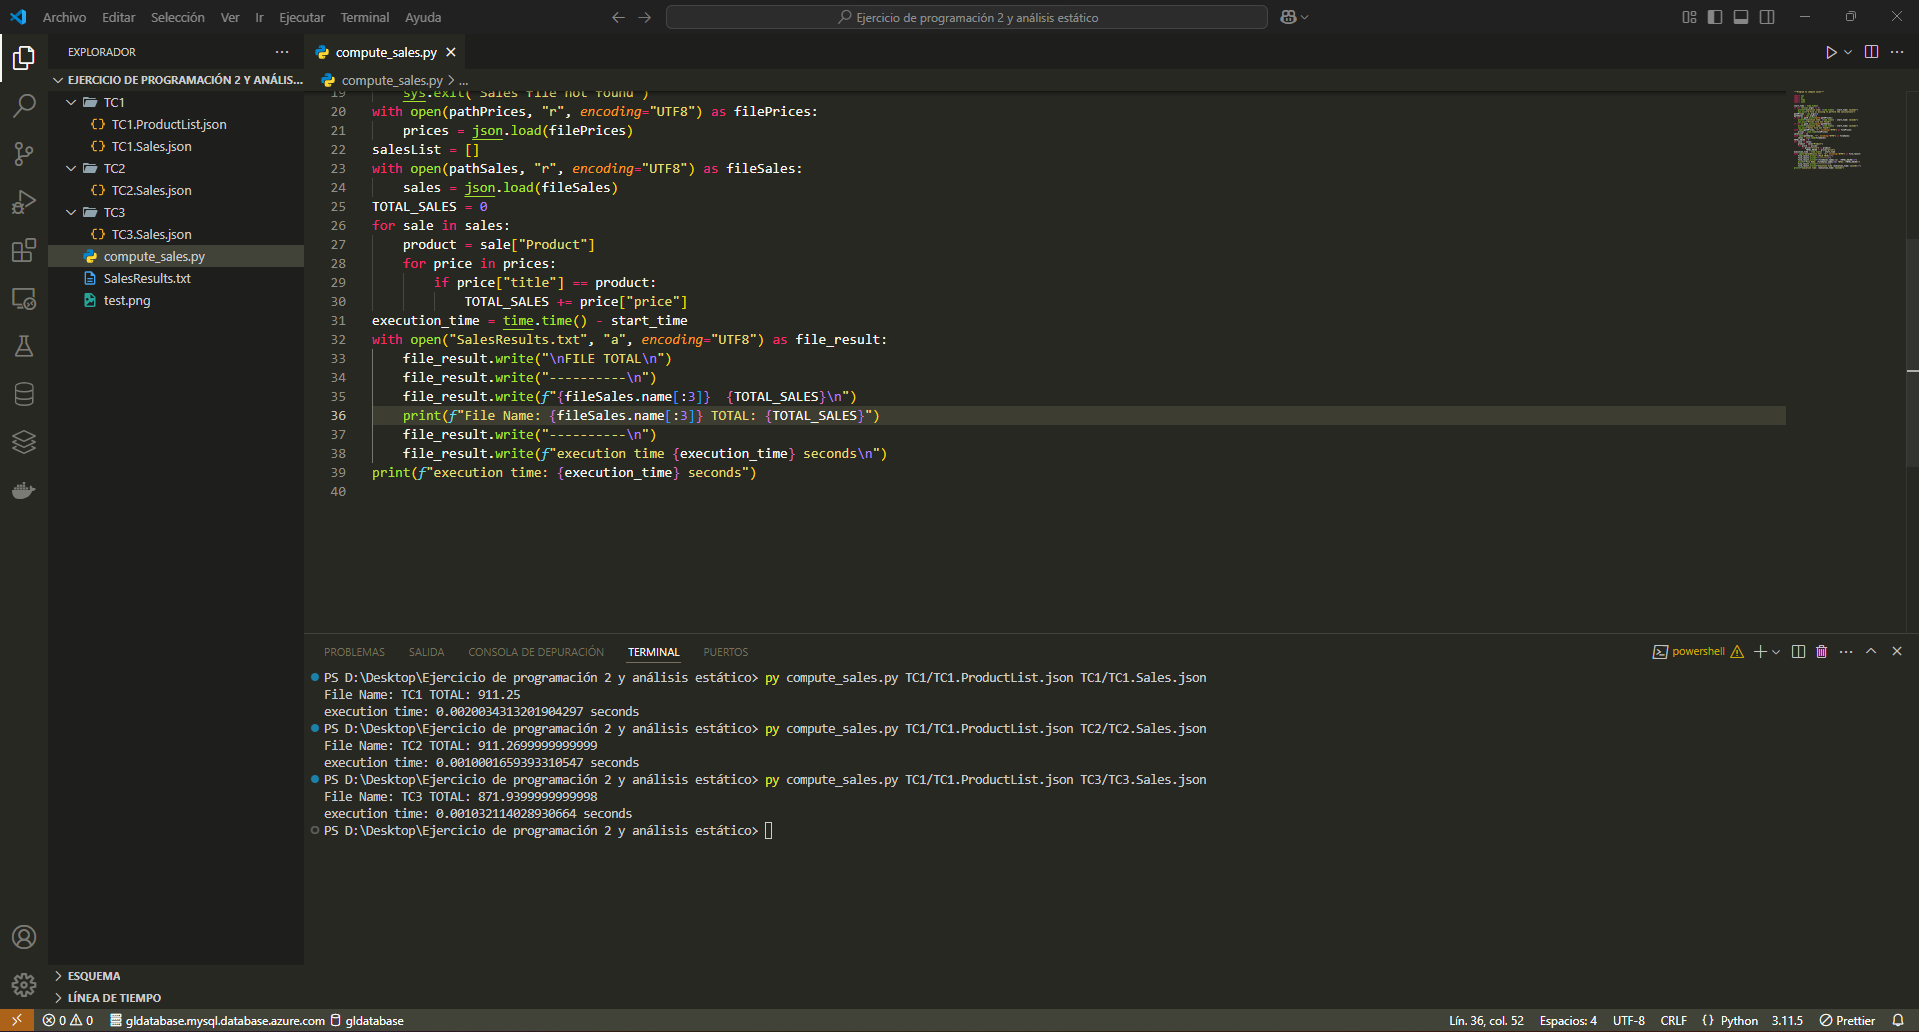
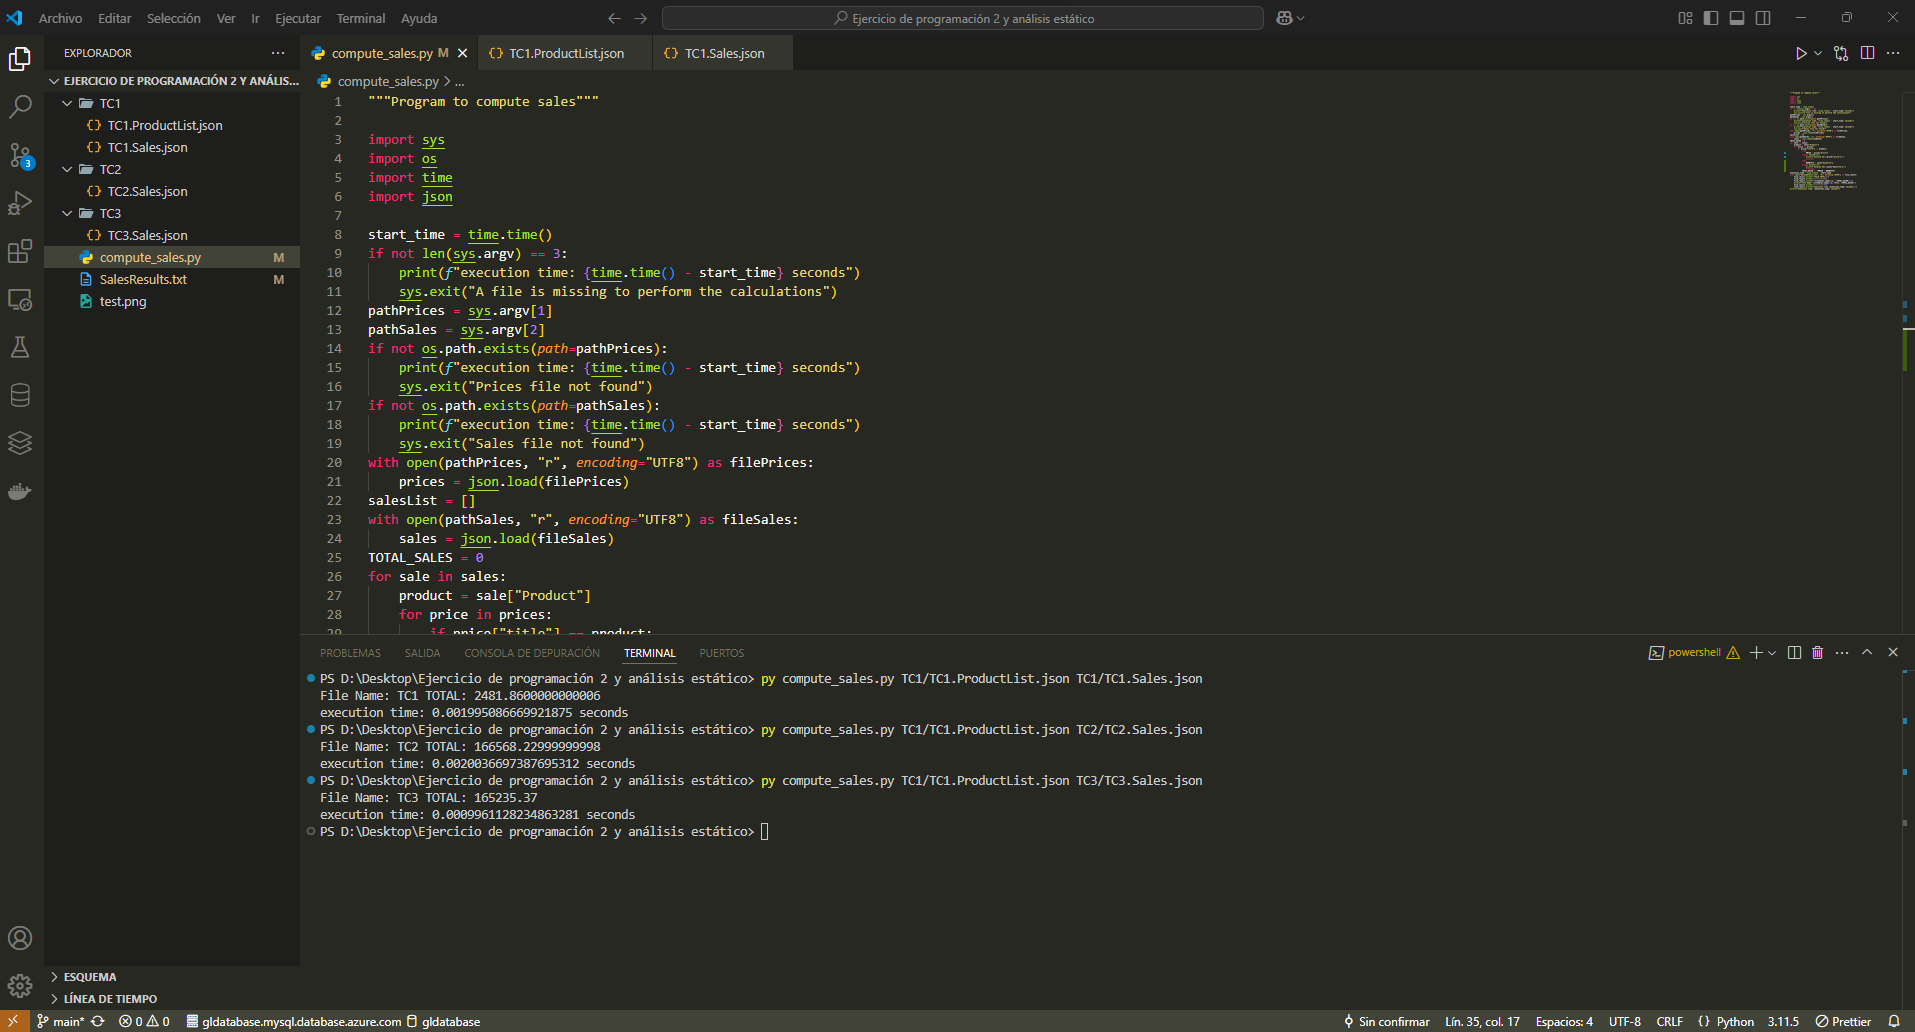
commit inicial

diff --git a/compute_sales.py b/compute_sales.py
@@ -28,10 +28,16 @@ for sale in sales:
     for price in prices:
         if price["title"] == product:
             try:
-                TOTAL_SALES += price["price"]
+                PRICE = price["price"]
             except ValueError:
-                print(f'Invalid Value: { price["price"] }')
+                print(f'Invalid Val:{price["price"]}')
                 continue
+            try:
+                QUANTITY = sale["Quantity"]
+            except ValueError:
+                print(f'Invalid Val:{sale["Quantity"]}')
+                continue
+            TOTAL_SALES += (PRICE * QUANTITY)
 execution_time = time.time() - start_time
 with open("SalesResults.txt", "a", encoding="UTF8") as file_result:
     file_result.write("\nFILE TOTAL\n")
